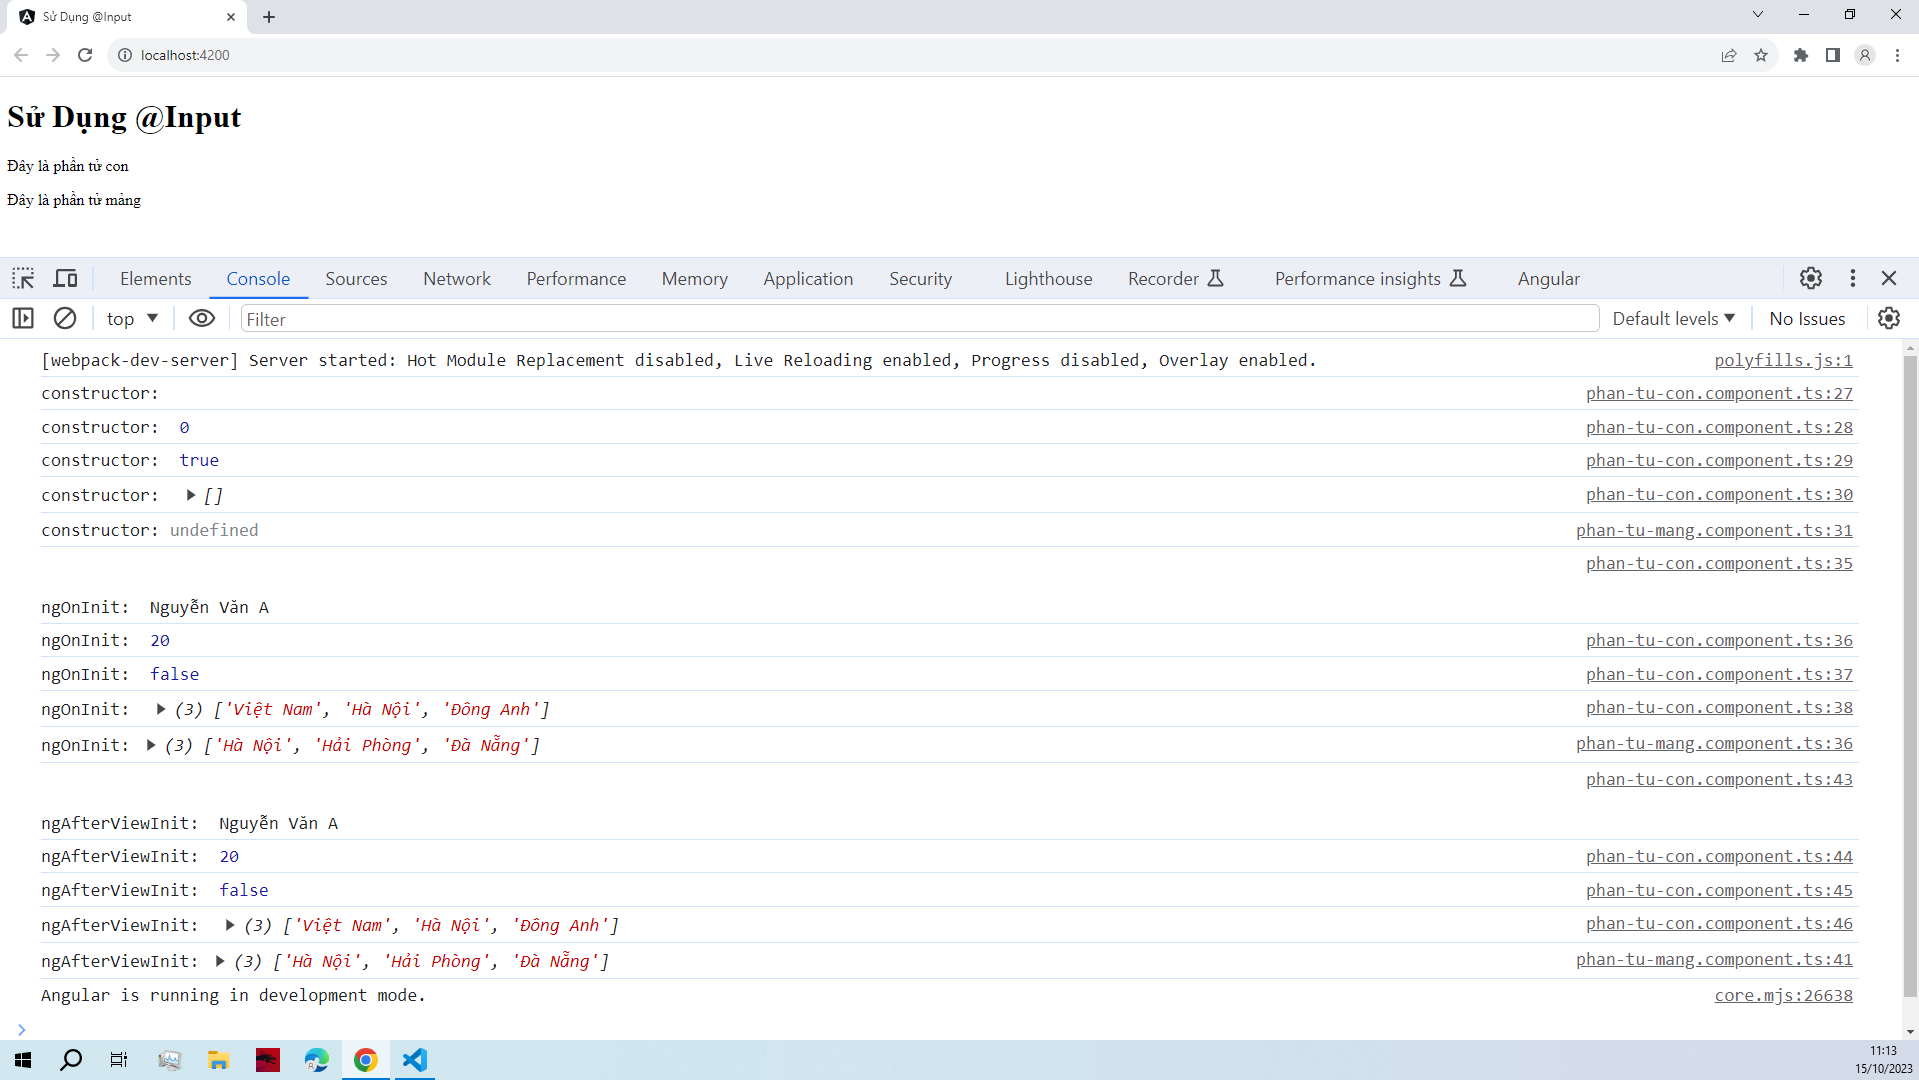
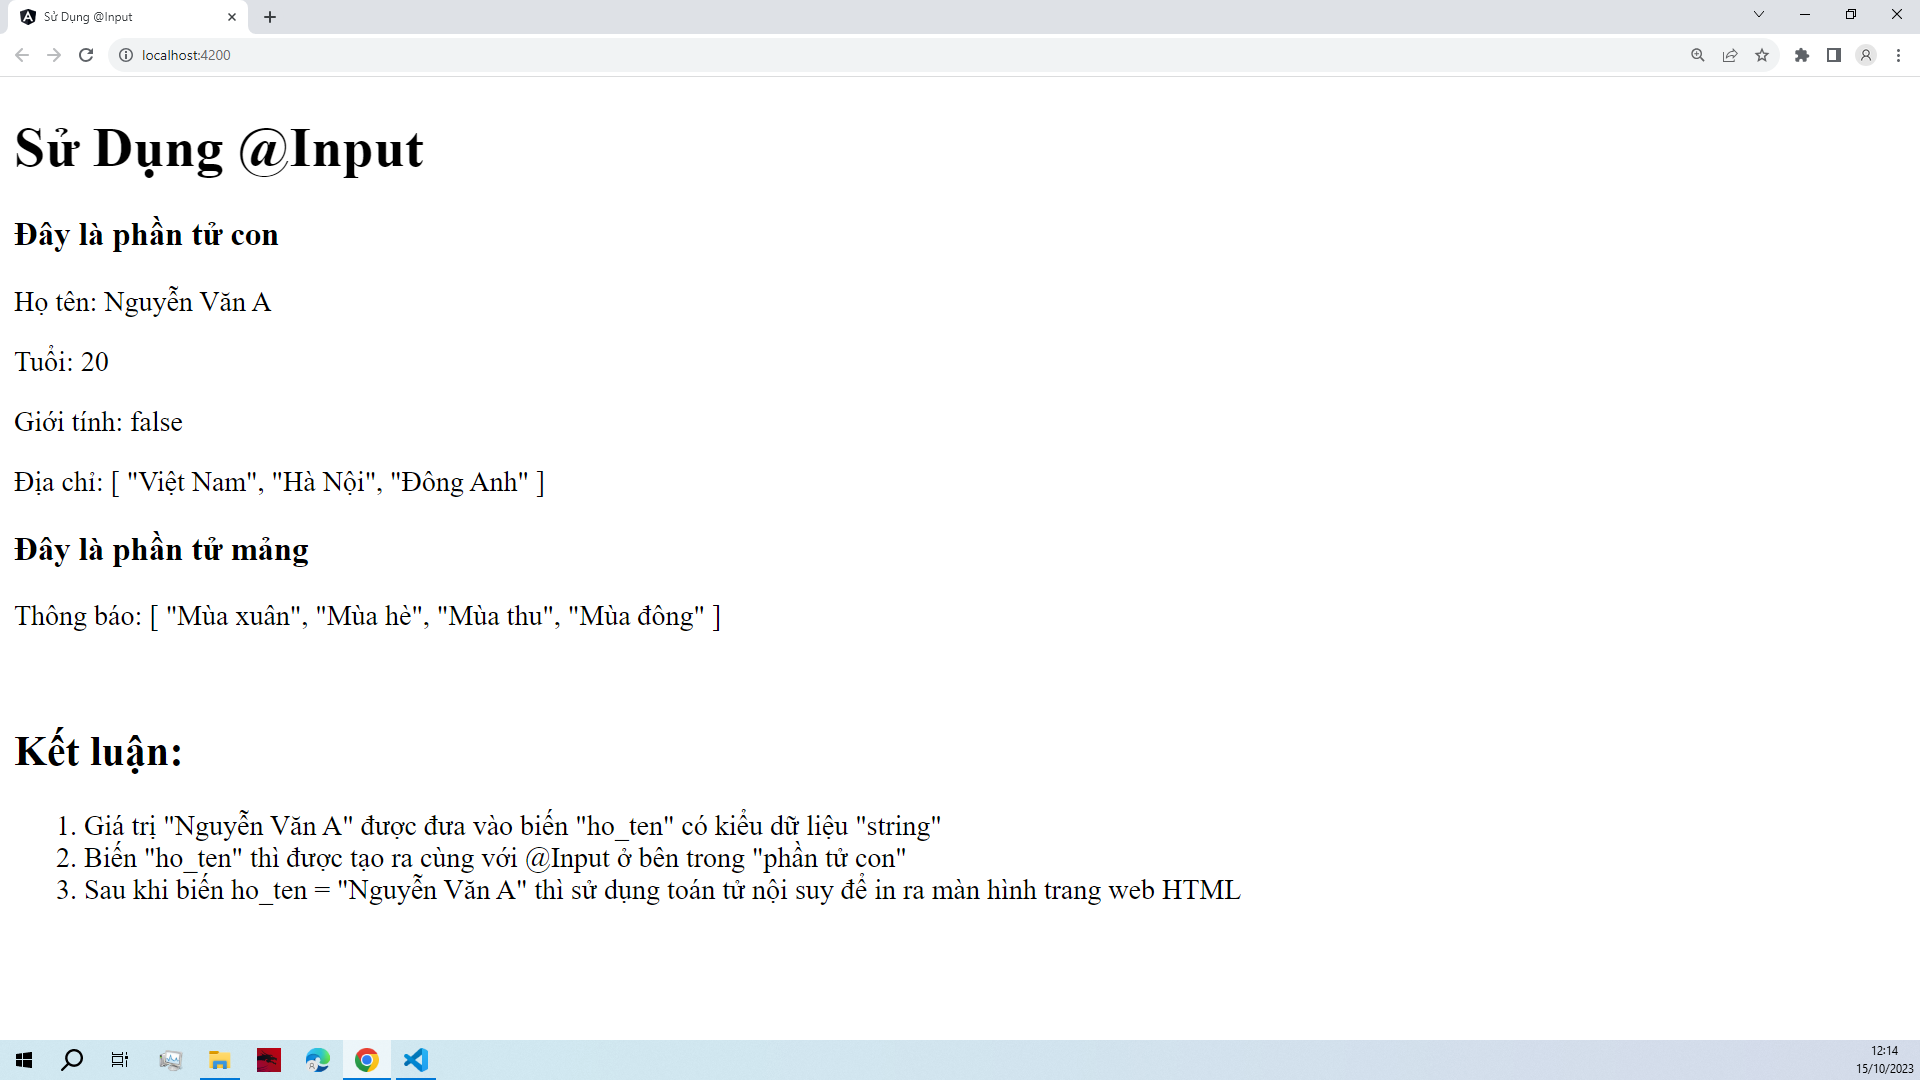
cap nhat

diff --git a/Truyền dữ liệu cho Component bất kỳ bằng @Input/src/app/app.component.html b/Truyền dữ liệu cho Component bất kỳ bằng @Input/src/app/app.component.html
@@ -13,6 +13,18 @@
 
 
 <app-phan-tu-mang
-  [notification-input]="['Hà Nội', 'Hải Phòng', 'Đà Nẵng']"
+  [notification-input]="['Mùa xuân', 'Mùa hè', 'Mùa thu', 'Mùa đông']"
 >
 </app-phan-tu-mang>
+
+
+<br>
+<h2>
+  Kết luận:
+</h2>
+
+<ol>
+  <li>Giá trị "Nguyễn Văn A" được đưa vào biến "ho_ten" có kiểu dữ liệu "string"</li>
+  <li>Biến "ho_ten" thì được tạo ra cùng với @Input ở bên trong "phần tử con"</li>
+  <li>Sau khi biến ho_ten = "Nguyễn Văn A" thì sử dụng toán tử nội suy để in ra màn hình trang web HTML</li>
+</ol>

diff --git a/Truyền dữ liệu cho Component bất kỳ bằng @Input/src/app/phan-tu-mang/phan-tu-mang.component.html b/Truyền dữ liệu cho Component bất kỳ bằng @Input/src/app/phan-tu-mang/phan-tu-mang.component.html
@@ -1,1 +1,12 @@
-<p>Đây là phần tử mảng</p>
+<h3>Đây là phần tử mảng</h3>
+
+<!--
+    cái dấu gạch đứng
+    trong Angular
+    gọi là chức năng pipe (đường ống)
+
+    nó giúp chuyển từ kiểu dữ liệu mảng
+    sang kiểu dữ liệu string
+    có định dạng json
+-->
+<p>Thông báo: {{ thong_bao | json }} </p>

diff --git a/Truyền dữ liệu cho Component bất kỳ bằng @Input/src/app/phan-tu-con/phan-tu-con.component.html b/Truyền dữ liệu cho Component bất kỳ bằng @Input/src/app/phan-tu-con/phan-tu-con.component.html
@@ -1,1 +1,6 @@
-<p>Đây là phần tử con</p>
+<h3>Đây là phần tử con</h3>
+
+<p>Họ tên: {{ ho_ten }}</p>
+<p>Tuổi: {{ tuoi }}</p>
+<p>Giới tính: {{ gioi_tinh }}</p>
+<p>Địa chỉ: {{ dia_chi | json}} </p>
